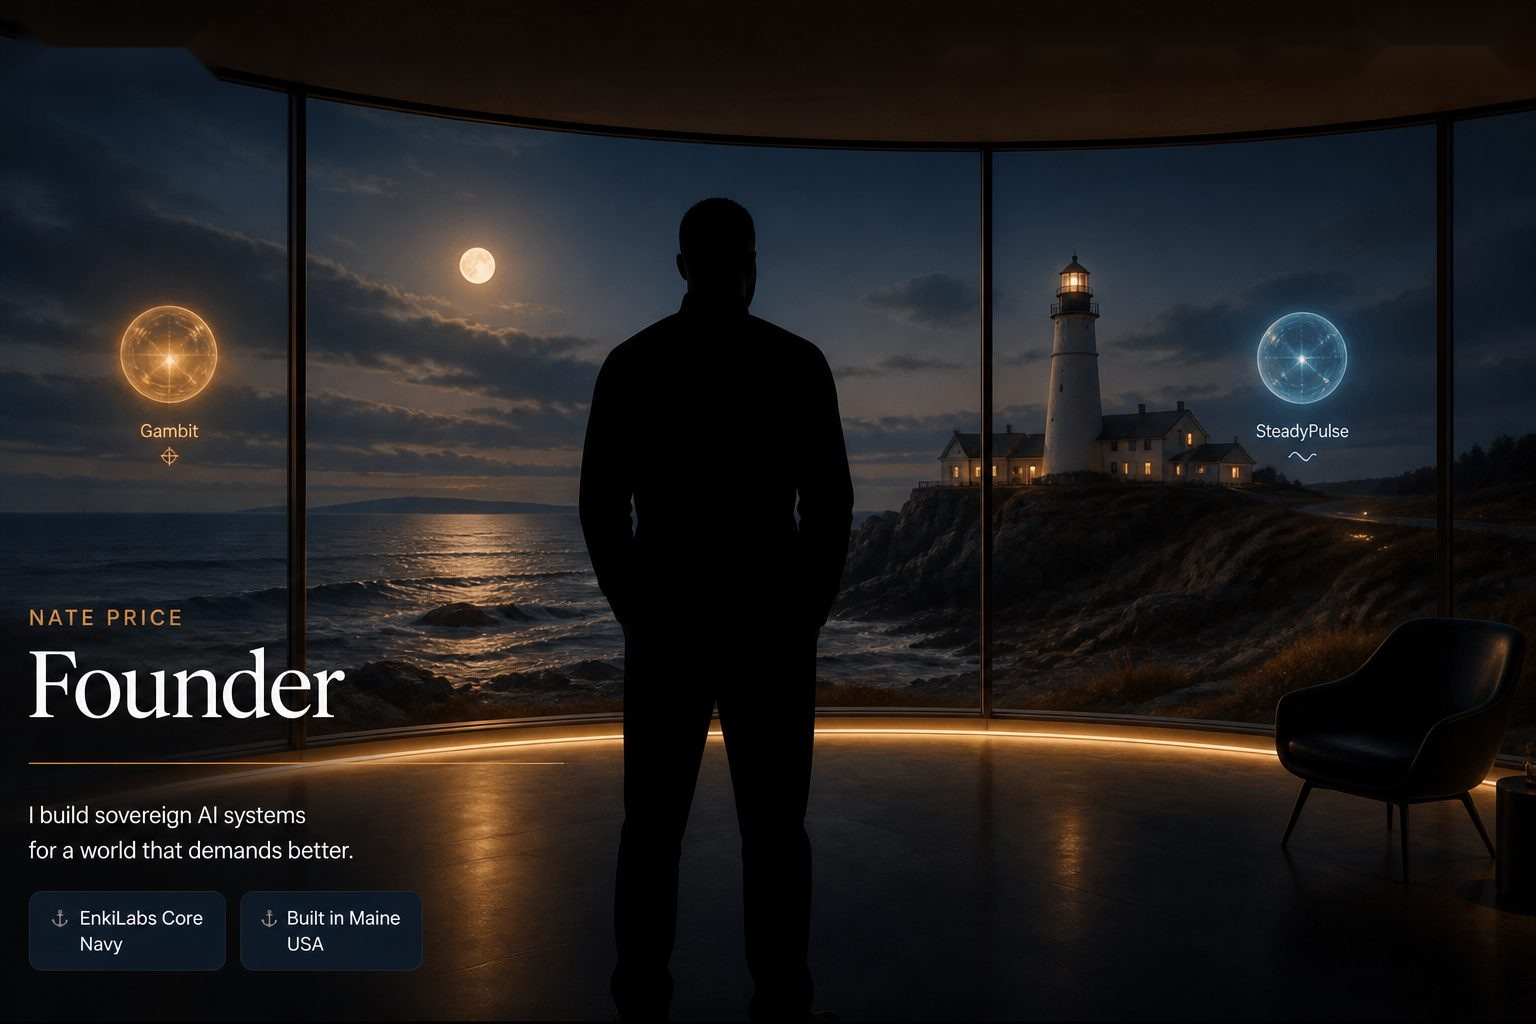
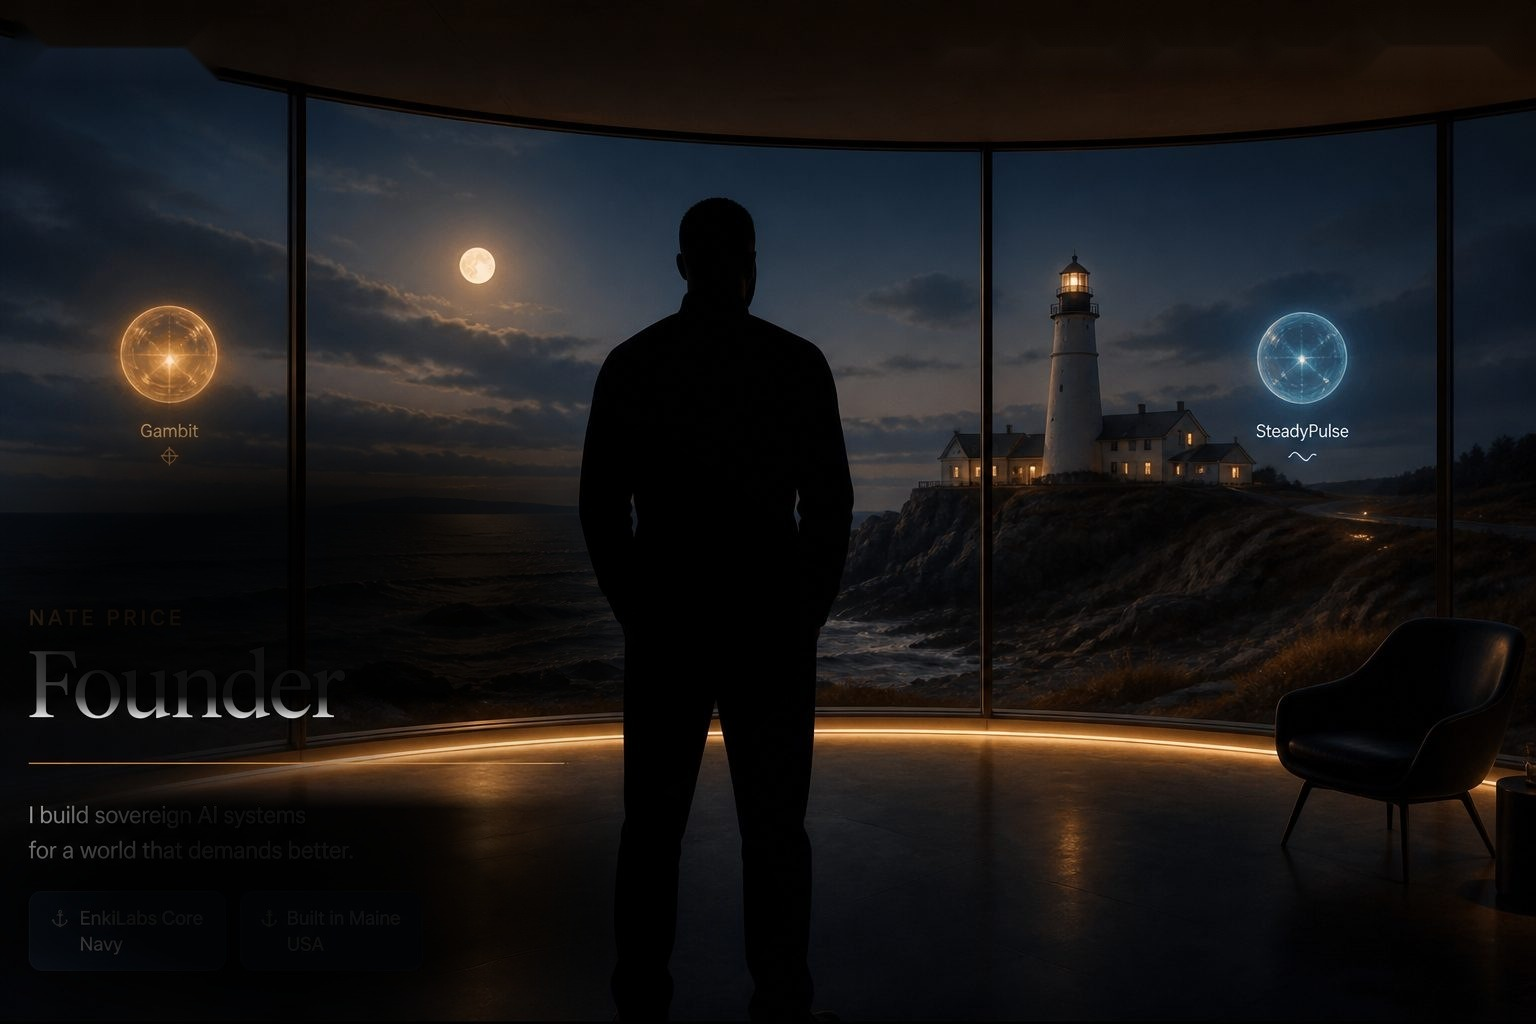
Compose large-desktop layout and drop locked-hero hint
Cap gutters on a 1440px chrome frame so nav and type stay composed on 1920 and 2560. Widen inner wraps, reduce leftover hero overscan, hide painted mockup type in hero.jpg, and remove the Move / locked hero prototype hint.

Changed region(s): [[0.0, 0.4062, 0.4062, 0.7188], [0.0312, 0.75, 0.375, 1.0]]

diff --git a/index.html b/index.html
@@ -8,25 +8,26 @@
 <style>
 
   /* critical nav so preview never ships unstyled chrome */
-  .site-nav{position:fixed;top:0;left:0;right:0;z-index:40;display:flex;align-items:center;justify-content:space-between;padding:1.15rem 4.5vw;pointer-events:none;font-family:ui-sans-serif,system-ui,sans-serif}
+  :root{--gutter:clamp(1.25rem,4.5vw,4rem);--chrome:90rem;--edge:max(var(--gutter),calc((100vw - var(--chrome)) / 2))}
+  .site-nav{position:fixed;top:0;left:0;right:0;z-index:40;display:flex;align-items:center;justify-content:space-between;padding:1.15rem var(--edge);pointer-events:none;font-family:ui-sans-serif,system-ui,sans-serif}
   .site-nav a{pointer-events:auto;color:rgba(242,239,232,.85);text-decoration:none}
   .nav-mark{font-family:Georgia,serif;font-size:1.05rem;color:#f2efe8;text-shadow:0 1px 18px rgba(0,0,0,.55)}
   .nav-links{display:flex;gap:1.5rem;list-style:none;margin:0;padding:0;font-size:.68rem;letter-spacing:.22em;text-transform:uppercase;color:rgba(242,239,232,.45)}
   .nav-links a:hover,.nav-links a[aria-current=page]{color:#f2efe8}
-  .site-footer{position:absolute;left:4.5vw;bottom:2.2vh;z-index:5;font-family:ui-sans-serif,system-ui,sans-serif;font-size:.65rem;letter-spacing:.14em;text-transform:uppercase;color:rgba(242,239,232,.4)}
+  .site-footer{position:absolute;left:0;right:0;bottom:0;z-index:6;text-align:center;font-family:ui-sans-serif,system-ui,sans-serif;font-size:.65rem;letter-spacing:.14em;text-transform:uppercase;color:rgba(242,239,232,.4)}
 
   .stage {
     position: relative;
-    width: 100vw;
+    width: 100%;
     height: 100vh;
     overflow: hidden;
     cursor: crosshair;
   }
   .hero {
     position: absolute;
-    inset: -12%;
-    background: url("hero.jpg?v=20260825") 32% center / cover no-repeat;
-    transform: translate3d(var(--px, 0px), var(--py, 0px), 0) scale(1.06);
+    inset: -5%;
+    background: url("hero.jpg?v=20260826") 42% 42% / cover no-repeat;
+    transform: translate3d(var(--px, 0px), var(--py, 0px), 0) scale(1.03);
     will-change: transform;
     transition: transform 0.15s ease-out;
     filter: saturate(1.05) contrast(1.02);
@@ -36,47 +37,53 @@
     inset: 0;
     pointer-events: none;
     background:
-      radial-gradient(ellipse at center, transparent 40%, rgba(0,0,0,0.45) 100%),
-      linear-gradient(to top, rgba(0,0,0,0.35), transparent 30%);
+      radial-gradient(ellipse at center, transparent 42%, rgba(0,0,0,0.5) 100%),
+      linear-gradient(to top, rgba(5,7,11,0.55) 0%, transparent 28%);
+  }
+  .hero-scrim {
+    position: absolute;
+    left: 0;
+    bottom: 0;
+    width: min(38vw, 34rem);
+    height: min(40vh, 22rem);
+    z-index: 4;
+    pointer-events: none;
+    background: radial-gradient(ellipse 90% 85% at 12% 78%, rgba(5,7,11,0.72), transparent 72%);
   }
   .ui {
     position: absolute;
-    left: 5.5vw;
+    left: var(--edge);
     bottom: 7.5vh;
     z-index: 5;
     pointer-events: none;
-  }
-  .ui .name {
-    font-family: var(--serif);
-    font-size: clamp(1.6rem, 3.2vw, 2.8rem);
-    font-weight: 500;
-    letter-spacing: 0.02em;
-    text-shadow: 0 2px 24px rgba(0,0,0,0.6);
-  }
-  .ui .role {
-    margin-top: 0.35rem;
-    font-family: var(--sans);
-    font-size: 0.78rem;
-    letter-spacing: 0.28em;
-    text-transform: uppercase;
-    color: rgba(242,239,232,0.72);
   }
   .ui .chips { pointer-events: none; }
-  .hint {
-    position: absolute;
-    right: 4.5vw;
-    bottom: 7.5vh;
-    z-index: 5;
-    font-family: var(--sans);
-    font-size: 0.7rem;
-    letter-spacing: 0.18em;
-    text-transform: uppercase;
-    color: rgba(242,239,232,0.45);
-    pointer-events: none;
-  }
   .stage .grain {
     position: absolute;
     z-index: 3;
+  }
+
+  @media (min-width: 1400px) {
+    .hero {
+      inset: -4%;
+      background-position: 43% 44%;
+    }
+  }
+
+  @media (min-width: 1900px) {
+    .hero {
+      inset: -3%;
+      background-position: 45% 45%;
+      transform: translate3d(var(--px, 0px), var(--py, 0px), 0) scale(1.025);
+    }
+  }
+
+  @media (min-aspect-ratio: 2.1/1) {
+    .hero {
+      inset: 0;
+      background-size: auto 112%;
+      background-position: 48% 46%;
+    }
   }
 
   @media (max-width: 720px) {
@@ -102,16 +109,22 @@
       inset: -2%;
       /* keep silhouette + lighthouse readable on phone */
       background-position: 55% 40%;
+      background-size: cover;
       transform: none !important;
       filter: saturate(1.04) contrast(1.03);
     }
+    .vignette {
+      background:
+        radial-gradient(ellipse at center, transparent 40%, rgba(0,0,0,0.45) 100%),
+        linear-gradient(to top, rgba(0,0,0,0.35), transparent 30%);
+    }
+    .hero-scrim { display: none; }
     .ui {
       left: 4vw;
       right: 4vw;
       bottom: max(5.5rem, 10dvh);
     }
     .ui .chips { gap: 0.4rem; }
-    .hint { display: none; }
     .site-footer {
       left: 0;
       right: 0;
@@ -136,6 +149,7 @@
   <div class="stage" id="stage">
     <div class="hero" id="hero"></div>
     <div class="vignette"></div>
+    <div class="hero-scrim" aria-hidden="true"></div>
     <div class="grain"></div>
     <div class="ui">
       <div class="chips">
@@ -144,7 +158,6 @@
         <span class="chip">EnkiLabs</span>
       </div>
     </div>
-    <div class="hint">Move · locked hero</div>
     <footer class="site-footer overlay">Built in Maine · EnkiLabs</footer>
   </div>
 

diff --git a/styles.css b/styles.css
@@ -13,6 +13,11 @@
   --line: rgba(255, 255, 255, 0.14);
   --serif: "Iowan Old Style", "Palatino Linotype", Palatino, Georgia, serif;
   --sans: ui-sans-serif, system-ui, -apple-system, "Segoe UI", sans-serif;
+  --gutter: clamp(1.25rem, 4.5vw, 4rem);
+  --chrome: 90rem;
+  --frame: 58rem;
+  --frame-wide: 68rem;
+  --edge: max(var(--gutter), calc((100vw - var(--chrome)) / 2));
 }
 
 *, *::before, *::after { box-sizing: border-box; margin: 0; padding: 0; }
@@ -52,7 +57,7 @@ img { max-width: 100%; display: block; }
   display: flex;
   align-items: center;
   justify-content: space-between;
-  padding: 1.15rem 4.5vw;
+  padding: 1.15rem var(--edge);
   pointer-events: none;
   font-family: var(--sans);
 }
@@ -180,12 +185,12 @@ img { max-width: 100%; display: block; }
   position: relative;
   z-index: 5;
   isolation: isolate;
-  width: min(920px, 90vw);
+  width: min(var(--frame), calc(100% - 2 * var(--gutter)));
   margin: 0 auto;
   padding-bottom: 5rem;
 }
 
-.wrap.wide { width: min(1040px, 92vw); }
+.wrap.wide { width: min(var(--frame-wide), calc(100% - 2 * var(--gutter))); }
 
 .kicker {
   font-family: var(--sans);
@@ -489,7 +494,7 @@ h1 {
 .site-footer {
   position: relative;
   z-index: 5;
-  padding: 2rem 4.5vw 2.5rem;
+  padding: 2rem var(--edge) 2.5rem;
   font-family: var(--sans);
   font-size: 0.65rem;
   letter-spacing: 0.2em;
@@ -541,6 +546,51 @@ body.hero-page .site-nav {
 @keyframes grain {
   0%, 100% { transform: translate(0, 0); }
   50% { transform: translate(-1%, 1%); }
+}
+
+@media (min-width: 1400px) {
+  :root {
+    --frame: 66rem;
+    --frame-wide: 80rem;
+  }
+
+  .page {
+    padding: 7.25rem 0 0;
+  }
+
+  h1 {
+    font-size: clamp(2.15rem, 2.3vw, 3.45rem);
+  }
+
+  .moon-soft {
+    width: min(22vw, 440px);
+    height: min(22vw, 440px);
+  }
+}
+
+@media (min-width: 1900px) {
+  :root {
+    --frame: 70rem;
+    --frame-wide: 84rem;
+  }
+
+  .page {
+    padding: 8rem 0 0;
+  }
+
+  .wrap,
+  .wrap.wide {
+    padding-bottom: 6rem;
+  }
+
+  .lede {
+    font-size: 1.1rem;
+    max-width: 42rem;
+  }
+
+  .prose {
+    max-width: 40rem;
+  }
 }
 
 @media (max-width: 900px) {
